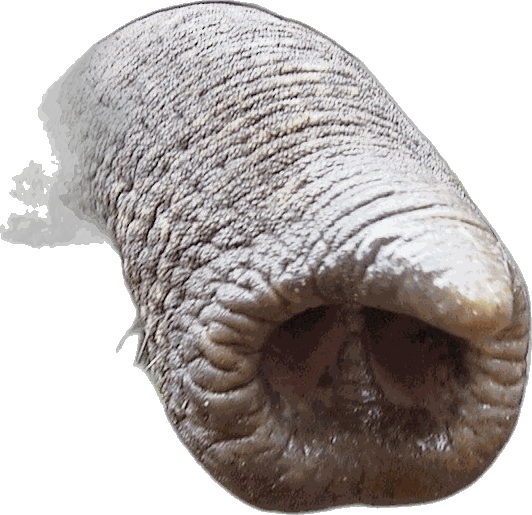
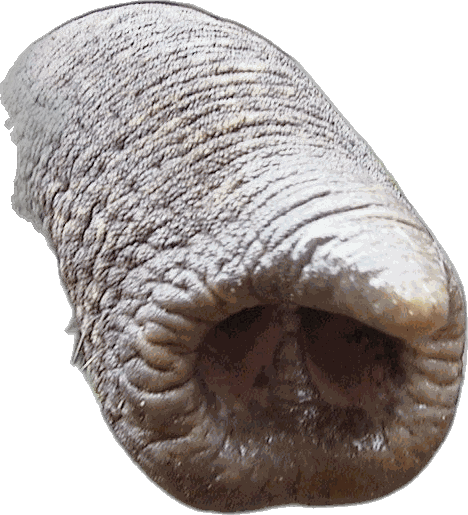
fix: убран остаток фона у хобота, точки-позиции крупнее
Дымка у слона тянулась от самого силуэта, общая чистка её не брала —
пересобрал этот вырез по порогу 0.55 с расширением на 3 px.
Точки домика 30 → 44 px: пальцем попасть было нечем.

Claude-Session: https://claude.ai/code/session_012YvetCcmqmiZWrFYdU2BXs

diff --git a/src/styles/global.css b/src/styles/global.css
@@ -254,10 +254,11 @@ h2 { font-family: var(--display); font-weight: 600; letter-spacing: -.01em;
 .carousel-now strong { font-family: var(--display); font-weight: 600; font-size: 24px; color: var(--ink); }
 /* точки-позиции: в «Мокром носике» 22 зверя, без них непонятно, где ты */
 .dots { display: flex; flex-wrap: wrap; gap: 8px; margin-top: 14px; max-width: 360px; }
-.dot { width: 30px; height: 30px; border-radius: 50%; padding: 0; position: relative; }
-.dot::after { content: ''; position: absolute; inset: 10px; border-radius: 50%;
+.dot { width: 44px; height: 44px; border-radius: 50%; padding: 0; position: relative; }
+.dot::after { content: ''; position: absolute; inset: 16px; border-radius: 50%;
               background: rgba(70,40,15,.26); transition: inset .18s, background .18s; }
-.dot--on::after { inset: 5px; background: var(--accent); }
+.dot--on::after { inset: 11px; background: var(--accent); }
+.dots { gap: 2px; max-width: 420px; }
 
 /* ——— заставка ——— */
 .home-grid {
